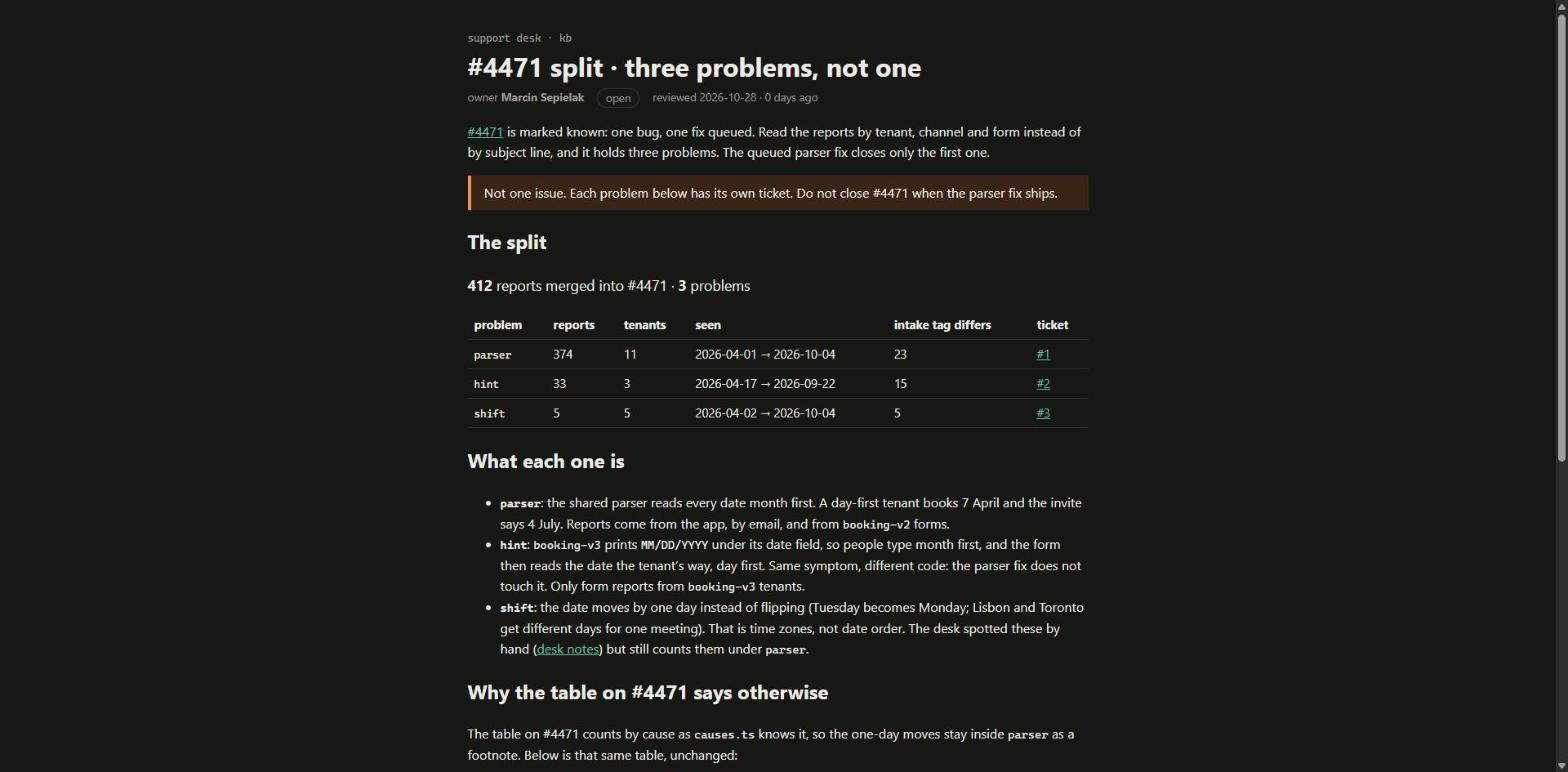
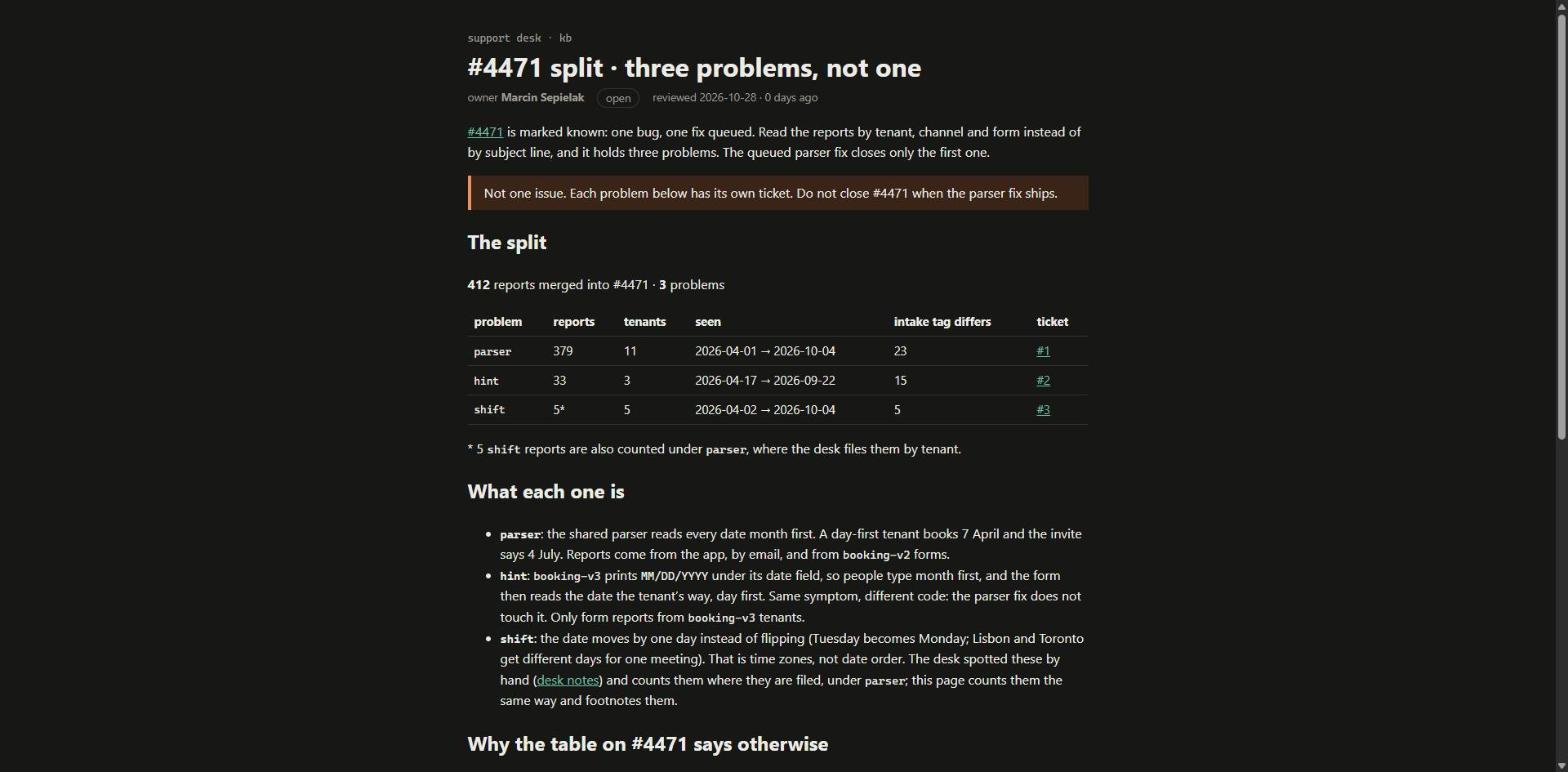
Count one-day moves where the desk files them (parser 379), footnote shift

diff --git a/rendered/4471-split.html b/rendered/4471-split.html
@@ -3,19 +3,19 @@
   <head>
     <meta charset="utf-8" />
     <meta name="viewport" content="width=device-width, initial-scale=1" />
-    <link href="../../_app/immutable/entry/start.DSRZBz-R.js" rel="modulepreload">
+    <link href="../../_app/immutable/entry/start.CpT9Y5xz.js" rel="modulepreload">
 		<link href="../../_app/immutable/chunks/DnoyNMba.js" rel="modulepreload">
-		<link href="../../_app/immutable/chunks/9KNVX7hm.js" rel="modulepreload">
+		<link href="../../_app/immutable/chunks/C0pBUa6v.js" rel="modulepreload">
 		<link href="../../_app/immutable/chunks/DXhvxdpI.js" rel="modulepreload">
-		<link href="../../_app/immutable/entry/app.QpNGXYs_.js" rel="modulepreload">
+		<link href="../../_app/immutable/entry/app.C_X2ECTP.js" rel="modulepreload">
 		<link href="../../_app/immutable/chunks/4HIIzLmj.js" rel="modulepreload">
 		<link href="../../_app/immutable/chunks/B4WlwwdY.js" rel="modulepreload">
 		<link href="../../_app/immutable/chunks/CGyox8To.js" rel="modulepreload">
 		<link href="../../_app/immutable/chunks/gCpT5-Oq.js" rel="modulepreload">
 		<link href="../../_app/immutable/nodes/0.BIUIeQ3I.js" rel="modulepreload">
 		<link href="../../_app/immutable/chunks/BHsyMl1J.js" rel="modulepreload">
-		<link href="../../_app/immutable/nodes/5.DRnbN2Qc.js" rel="modulepreload">
-		<link href="../../_app/immutable/chunks/BcsC9UQd.js" rel="modulepreload">
+		<link href="../../_app/immutable/nodes/5.YC2xwhpE.js" rel="modulepreload">
+		<link href="../../_app/immutable/chunks/oQemLQBB.js" rel="modulepreload">
 		<link href="../../_app/immutable/chunks/BMg7KjJ0.js" rel="modulepreload">
 		<link href="../../_app/immutable/chunks/DR7RVcJr.js" rel="modulepreload">
 		<link href="../../_app/immutable/chunks/BsPnvk72.js" rel="modulepreload">
@@ -23,30 +23,32 @@
 		<link href="../../_app/immutable/assets/runbook.BhhgOc_n.css" rel="stylesheet">
 		<link href="../../_app/immutable/assets/Callout.yLErXQDM.css" rel="stylesheet">
 		<link href="../../_app/immutable/assets/CauseTable.DuKfINX_.css" rel="stylesheet">
-		<link href="../../_app/immutable/assets/5.DFuDaDDP.css" rel="stylesheet">
+		<link href="../../_app/immutable/assets/5.DZJyp1HO.css" rel="stylesheet">
   </head>
   <body data-sveltekit-preload-data="hover">
     <div style="display: contents"><!--[--><!--[0--><!--[--><!--[--><div class="kb svelte-e2jw2j"><header><a class="crumb svelte-e2jw2j" href="/kb">support desk · kb</a> <h1 class="svelte-e2jw2j">#4471 split · three problems, not one</h1> <p class="meta svelte-e2jw2j"><span>owner <b>Marcin Sepielak</b></span> <span class="status open svelte-e2jw2j">open</span> <span class="svelte-e2jw2j">reviewed 2026-10-28 · 0 days ago</span></p></header> <!--[-1--><!--]--> <main><p><a href="/kb/incidents/4471">#4471</a> is marked known: one bug, one fix queued. Read the reports by tenant,
 channel and form instead of by subject line, and it holds three problems. The queued parser fix
-closes only the first one.</p> <aside class="warn svelte-17bri61"><!---->Not one issue. Each problem below has its own ticket. Do not close #4471 when the parser fix ships.<!----></aside><!----> <h2>The split</h2> <p class="sum svelte-xskqqx"><strong>412</strong> reports merged into #4471 · <strong>3</strong> problems</p> <table><thead><tr><th>problem</th><th>reports</th><th>tenants</th><th>seen</th><th>intake tag differs</th><th>ticket</th></tr></thead><tbody><!--[--><tr><td><code>parser</code></td><td>374</td><td>11</td><td>2026-04-01 → 2026-10-04</td><td>23</td><td><!--[0--><a href="https://github.com/Sepcio88/mega-s01e03-what-it-shows/issues/1">#1</a><!--]--></td></tr><tr><td><code>hint</code></td><td>33</td><td>3</td><td>2026-04-17 → 2026-09-22</td><td>15</td><td><!--[0--><a href="https://github.com/Sepcio88/mega-s01e03-what-it-shows/issues/2">#2</a><!--]--></td></tr><tr><td><code>shift</code></td><td>5</td><td>5</td><td>2026-04-02 → 2026-10-04</td><td>5</td><td><!--[0--><a href="https://github.com/Sepcio88/mega-s01e03-what-it-shows/issues/3">#3</a><!--]--></td></tr><!--]--></tbody></table><!----> <h2>What each one is</h2> <ul><li><strong><code>parser</code></strong>: the shared parser reads every date month first. A day-first tenant books 7 April
+closes only the first one.</p> <aside class="warn svelte-17bri61"><!---->Not one issue. Each problem below has its own ticket. Do not close #4471 when the parser fix ships.<!----></aside><!----> <h2>The split</h2> <p class="sum svelte-xskqqx"><strong>412</strong> reports merged into #4471 · <strong>3</strong> problems</p> <table><thead><tr><th>problem</th><th>reports</th><th>tenants</th><th>seen</th><th>intake tag differs</th><th>ticket</th></tr></thead><tbody><!--[--><tr><td><code>parser</code></td><td>379</td><td>11</td><td>2026-04-01 → 2026-10-04</td><td>23</td><td><!--[0--><a href="https://github.com/Sepcio88/mega-s01e03-what-it-shows/issues/1">#1</a><!--]--></td></tr><tr><td><code>hint</code></td><td>33</td><td>3</td><td>2026-04-17 → 2026-09-22</td><td>15</td><td><!--[0--><a href="https://github.com/Sepcio88/mega-s01e03-what-it-shows/issues/2">#2</a><!--]--></td></tr><tr><td><code>shift</code></td><td>5*</td><td>5</td><td>2026-04-02 → 2026-10-04</td><td>5</td><td><!--[0--><a href="https://github.com/Sepcio88/mega-s01e03-what-it-shows/issues/3">#3</a><!--]--></td></tr><!--]--></tbody></table> <!--[--><p class="note svelte-xskqqx">* 5 <code>shift</code> reports are also counted under <!--[--><!----><code>parser</code><!--]-->, where the desk files them by tenant.</p><!--]--><!----> <h2>What each one is</h2> <ul><li><strong><code>parser</code></strong>: the shared parser reads every date month first. A day-first tenant books 7 April
 and the invite says 4 July. Reports come from the app, by email, and from <code>booking-v2</code> forms.</li> <li><strong><code>hint</code></strong>: <code>booking-v3</code> prints <code>MM/DD/YYYY</code> under its date field, so people type month first,
 and the form then reads the date the tenant’s way, day first. Same symptom, different code: the
 parser fix does not touch it. Only form reports from <code>booking-v3</code> tenants.</li> <li><strong><code>shift</code></strong>: the date moves by one day instead of flipping (Tuesday becomes Monday; Lisbon and
 Toronto get different days for one meeting). That is time zones, not date order. The desk spotted
-these by hand (<a href="/kb/incidents/4471">desk notes</a>) but still counts them under <code>parser</code>.</li></ul> <h2>Why the table on #4471 says otherwise</h2> <p>The table on #4471 counts by cause as <code>causes.ts</code> knows it, so the one-day moves stay inside <code>parser</code> as a footnote. Below is that same table, unchanged:</p> <p class="sum svelte-12oyimm"><strong>412</strong> reports merged into #4471 · <strong>2</strong> causes</p> <table><thead><tr><th>cause</th><th>reports</th><th>tagged as</th><th>tenants</th><th>seen</th><th></th></tr></thead><tbody><!--[--><tr class="svelte-12oyimm"><td class="svelte-12oyimm"><code>parser</code></td><td class="svelte-12oyimm">379</td><td class="tags svelte-12oyimm">parser ×356 · hint ×23</td><td class="svelte-12oyimm">11</td><td class="svelte-12oyimm">2026-04-01 → 2026-10-04</td><td class="svelte-12oyimm">#4471</td></tr><tr class="svelte-12oyimm wrong"><td class="svelte-12oyimm"><code>hint</code></td><td class="svelte-12oyimm">33</td><td class="tags svelte-12oyimm">hint ×18 · parser ×15</td><td class="svelte-12oyimm">3</td><td class="svelte-12oyimm">2026-04-17 → 2026-09-22</td><td class="svelte-12oyimm">not this ticket — no ticket of its own</td></tr><!--]--></tbody></table> <!--[--><!--[0--><p class="note svelte-12oyimm">5 reports read as a one-day move; filed under <code>parser</code> by tenant.</p><!--]--><!--[-1--><!--]--><!--]--><!----> <h2>How to read reports next time</h2> <ul><li>Group by <strong>tenant, channel and form</strong>, not by subject or intake tag: intake guesses from the
+these by hand (<a href="/kb/incidents/4471">desk notes</a>) and counts them where they are filed, under <code>parser</code>; this page counts them the same way and footnotes them.</li></ul> <h2>Why the table on #4471 says otherwise</h2> <p>The table on #4471 counts by cause as <code>causes.ts</code> knows it: the same counts as above, with the
+one-day moves as a footnote instead of a ticket of their own, and <code>hint</code> with no ticket. Below is
+that same table, unchanged:</p> <p class="sum svelte-12oyimm"><strong>412</strong> reports merged into #4471 · <strong>2</strong> causes</p> <table><thead><tr><th>cause</th><th>reports</th><th>tagged as</th><th>tenants</th><th>seen</th><th></th></tr></thead><tbody><!--[--><tr class="svelte-12oyimm"><td class="svelte-12oyimm"><code>parser</code></td><td class="svelte-12oyimm">379</td><td class="tags svelte-12oyimm">parser ×356 · hint ×23</td><td class="svelte-12oyimm">11</td><td class="svelte-12oyimm">2026-04-01 → 2026-10-04</td><td class="svelte-12oyimm">#4471</td></tr><tr class="svelte-12oyimm wrong"><td class="svelte-12oyimm"><code>hint</code></td><td class="svelte-12oyimm">33</td><td class="tags svelte-12oyimm">hint ×18 · parser ×15</td><td class="svelte-12oyimm">3</td><td class="svelte-12oyimm">2026-04-17 → 2026-09-22</td><td class="svelte-12oyimm">not this ticket — no ticket of its own</td></tr><!--]--></tbody></table> <!--[--><!--[0--><p class="note svelte-12oyimm">5 reports read as a one-day move; filed under <code>parser</code> by tenant.</p><!--]--><!--[-1--><!--]--><!--]--><!----> <h2>How to read reports next time</h2> <ul><li>Group by <strong>tenant, channel and form</strong>, not by subject or intake tag: intake guesses from the
 reporter’s browser, and the tag differs from the problem on the counts above.</li> <li>A report that does not swap day and month is not this bug, whatever its subject says.</li> <li>The export repeats rows across pages; count by report id.</li></ul> <!--[0--><p class="stamp svelte-1280m42">desk ref <b class="svelte-1280m42">DR-KRZD-KVYV</b></p><!--]--><!----><!----></main> <footer class="svelte-e2jw2j">Pages are written by people. Tables and charts are built from data at render time.</footer></div><!--]--><!----><!--]--><!--]--> <!--[-1--><!--]--><!--]-->
 			
 			<script>
 				{
-					__sveltekit_1wnh5xz = {
+					__sveltekit_mwr533 = {
 						base: new URL("../..", location).pathname.slice(0, -1)
 					};
 
 					const element = document.currentScript.parentElement;
 
 					Promise.all([
-						import("../../_app/immutable/entry/start.DSRZBz-R.js"),
-						import("../../_app/immutable/entry/app.QpNGXYs_.js")
+						import("../../_app/immutable/entry/start.CpT9Y5xz.js"),
+						import("../../_app/immutable/entry/app.C_X2ECTP.js")
 					]).then(([kit, app]) => {
 						kit.start(app, element, {
 							node_ids: [0, 5],

diff --git a/src/lib/kb/split.ts b/src/lib/kb/split.ts
@@ -2,14 +2,10 @@
 import { causeOf, uniqueById, type Report, type Tenant } from '#lib/kb/causes';
 
 // `parser` and `hint` come from causes.ts. `shift` is a report whose date moved by one day instead
-// of flipping: the desk read these by hand (desk-notes.json, `oneDayMove`). A flip needs a day-first
-// tenant; a one-day move does not, so it is a different bug even when causes.ts files it as `parser`.
+// of flipping: the desk read these by hand (desk-notes.json, `oneDayMove`). It is a different bug,
+// but the desk counts a report where causes.ts files it, so a `shift` report stays in its cause's
+// count too and the `shift` row is footnoted, as CauseTable does.
 export type Problem = 'parser' | 'hint' | 'shift' | 'unplaced';
-
-export function problemOf(r: Report, t: Tenant | undefined, shiftIds: readonly string[]): Problem {
-  if (shiftIds.includes(r.id)) return 'shift';
-  return causeOf(r, t) ?? 'unplaced';
-}
 
 export type ProblemGroup = {
   problem: Problem;
@@ -19,6 +15,8 @@ export type ProblemGroup = {
   lastSeen: string;
   // Reports intake tagged with something other than this problem.
   mistagged: number;
+  // For `shift`: the cause these reports are also counted under.
+  alsoIn: Problem[];
 };
 
 export function splitTicket(
@@ -29,9 +27,10 @@ export function splitTicket(
 ): { merged: number; groups: ProblemGroup[] } {
   const merged = uniqueById(all).filter((r) => r.mergedInto === ticket);
   const byProblem = new Map<Problem, Report[]>();
+  const add = (p: Problem, r: Report) => byProblem.set(p, [...(byProblem.get(p) ?? []), r]);
   for (const r of merged) {
-    const p = problemOf(r, tenantOf(r), shiftIds);
-    byProblem.set(p, [...(byProblem.get(p) ?? []), r]);
+    add(causeOf(r, tenantOf(r)) ?? 'unplaced', r);
+    if (shiftIds.includes(r.id)) add('shift', r);
   }
   const groups = [...byProblem.entries()]
     .map(([problem, rs]) => {
@@ -43,6 +42,7 @@ export function splitTicket(
         firstSeen: days[0],
         lastSeen: days[days.length - 1],
         mistagged: rs.filter((r) => r.meta.intakeTag !== problem).length,
+        alsoIn: problem === 'shift' ? [...new Set(rs.map((r) => causeOf(r, tenantOf(r)) ?? 'unplaced'))] : [],
       };
     })
     .sort((a, b) => b.reports.length - a.reports.length);

diff --git a/src/lib/kb/SplitTable.svelte b/src/lib/kb/SplitTable.svelte
@@ -26,7 +26,7 @@
     {#each split.groups as g (g.problem)}
       <tr>
         <td><code>{g.problem}</code></td>
-        <td>{g.reports.length}</td>
+        <td>{g.reports.length}{g.alsoIn.length ? '*' : ''}</td>
         <td>{g.tenants}</td>
         <td>{g.firstSeen} → {g.lastSeen}</td>
         <td>{g.mistagged}</td>
@@ -36,6 +36,12 @@
   </tbody>
 </table>
 
+{#each split.groups.filter((g) => g.alsoIn.length) as g (g.problem)}
+  <p class="note">* {g.reports.length} <code>{g.problem}</code> reports are also counted under
+    {#each g.alsoIn as c, i (c)}{i ? ', ' : ''}<code>{c}</code>{/each}, where the desk files them by tenant.</p>
+{/each}
+
 <style>
   .sum { font-size: 1.1rem; }
+  .note { color: var(--muted); font-size: 0.85em; }
 </style>
